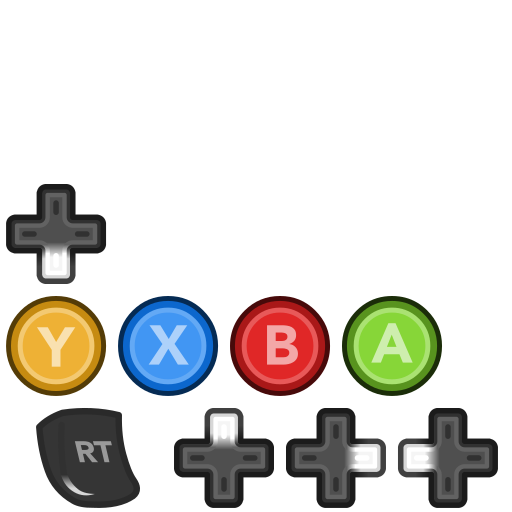
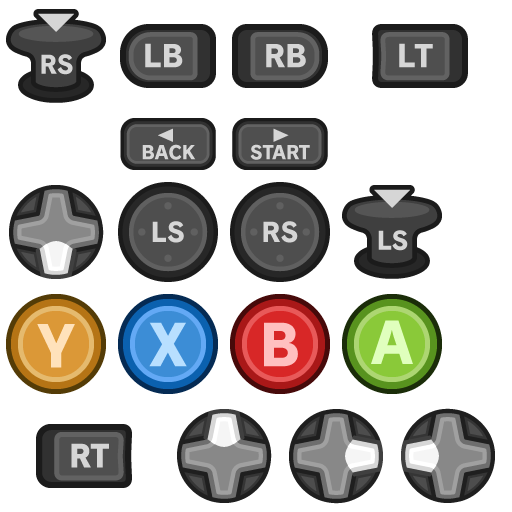
Update Button Prompts Textures Gallery

diff --git a/Remakes and Reskins/UI/Button Prompts/README.md b/Remakes and Reskins/UI/Button Prompts/README.md
@@ -1,26 +1,32 @@
 # Change Button Prompts
 
-If you what to change the button promts in the game the following sprite files need to be repleaced:
+If you what to change the button prompts in the game the following sprite files need to be replaced:
 
+- "PRESS START" Title screen: [`spr_sprani_sumo_fe_cvt_Exst/31C58963_512x256.dds`](/Original%20(PC)/Original%20(Tweaks%20dumps)/spr_sprani_sumo_fe_cvt_Exst/31C58963_512x256.png)
 - Main menu: [`spr_sprani_etc_cvt_Exst/1F77CB88_128x128.dds`](/Original%20(PC)/Original%20(Tweaks%20dumps)/spr_sprani_etc_cvt_Exst/1F77CB88_128x128.png)
 - Selection menu: [`spr_sprani_sumo_fe_cvt_Exst/ACF61D7C_1024x512.dds`](/Original%20(PC)/Original%20(Tweaks%20dumps)/spr_sprani_sumo_fe_cvt_Exst/ACF61D7C_1024x512.png)
+- Mission select in C2C: [`spr_sprani_sumo_fe_cvt_Exst/616FC97B_512x128.dds`](/Original%20(PC)/Original%20(Tweaks%20dumps)/spr_sprani_sumo_fe_cvt_Exst/616FC97B_512x128.png)
 - Race complete: [`spr_sprani_game_cvt_Exst/39229D64_1024x1024.dds`](/Original%20(PC)/Original%20(Tweaks%20dumps)/spr_sprani_game_cvt_Exst/39229D64_1024x1024.png)
 - Unlock screen: [`spr_sprani_congrats_cvt_Exst/455717B2_512x512.dds`](/Original%20(PC)/Original%20(Tweaks%20dumps)/spr_sprani_congrats_cvt_Exst/455717B2_512x512.png)
 - Holly's requests: [`spr_sprani_fruity_cvt_Exst/FA7BBB13_1024x512.dds`](/Original%20(PC)/Original%20(Tweaks%20dumps)/spr_sprani_fruity_cvt_Exst/FA7BBB13_1024x512.png)
 
 # Gallery
 
+|![Keyboard Dark](/Remakes%20and%20Reskins/UI/Button%20Prompts/Gallery/keys-dark.png)|![Keyboard Light](/Remakes%20and%20Reskins/UI/Button%20Prompts/Gallery/keys-light.png)|![Generic Dark](/Remakes%20and%20Reskins/UI/Button%20Prompts/Gallery/generic-dark.png)|![Generic Light](/Remakes%20and%20Reskins/UI/Button%20Prompts/Gallery/generic-light.png)|
+|---|---|---|---|
+|Keyboard Dark|Keyboard Light|Generic Dark|Generic Light|
+
 |![Xbox Classic](/Remakes%20and%20Reskins/UI/Button%20Prompts/Gallery/xb-classic.png)|![Xbox Modern](/Remakes%20and%20Reskins/UI/Button%20Prompts/Gallery/xb-modern.png)|![Xbox Dark](/Remakes%20and%20Reskins/UI/Button%20Prompts/Gallery/xb-dark.png)|![Xbox Light](/Remakes%20and%20Reskins/UI/Button%20Prompts/Gallery/xb-light.png)|
 |---|---|---|---|
 |Xbox Classic|Xbox Modern|Xbox Dark|Xbox Light|
 
-|![Keyboard](/Remakes%20and%20Reskins/UI/Button%20Prompts/Gallery/keys.png)|![PS Color](/Remakes%20and%20Reskins/UI/Button%20Prompts/Gallery/ps-color.png)|![PS Dark](/Remakes%20and%20Reskins/UI/Button%20Prompts/Gallery/ps-dark.png)|![PS Light](/Remakes%20and%20Reskins/UI/Button%20Prompts/Gallery/ps-light.png)|
+|![PS Classic](/Remakes%20and%20Reskins/UI/Button%20Prompts/Gallery/ps-classic.png)|![PS Modern](/Remakes%20and%20Reskins/UI/Button%20Prompts/Gallery/ps-modern.png)|![PS Dark](/Remakes%20and%20Reskins/UI/Button%20Prompts/Gallery/ps-dark.png)|![PS Light](/Remakes%20and%20Reskins/UI/Button%20Prompts/Gallery/ps-light.png)|
 |---|---|---|---|
-|Keyboard|PS Color|PS Dark|PS Light|
+|PS Classic|PS Modern|PS Dark|PS Light|
 
-|![Generic Dark](/Remakes%20and%20Reskins/UI/Button%20Prompts/Gallery/generic-dark.png)|![Generic Light](/Remakes%20and%20Reskins/UI/Button%20Prompts/Gallery/generic-light.png)|![Nintendo Dark](/Remakes%20and%20Reskins/UI/Button%20Prompts/Gallery/nintendo-dark.png)|![Nintendo Light](/Remakes%20and%20Reskins/UI/Button%20Prompts/Gallery/nintendo-light.png)|
+|![Nintendo Dark](/Remakes%20and%20Reskins/UI/Button%20Prompts/Gallery/switch-dark.png)|![Nintendo Light](/Remakes%20and%20Reskins/UI/Button%20Prompts/Gallery/switch-light.png)|![-]|![-]|
 |---|---|---|---|
-|Generic Dark|Generic Light|Nintendo Dark|Nintendo Light|
+|Nintendo Switch Dark|Nintendo Switch Light|-|-|
 
 # Credits
 
@@ -28,4 +34,4 @@ Original assets by Nicolae "Xelu" Berbece from [Those Awesome Guys](https://thos
 
 Updated by Paul Paun.
 
-Addapted to Outrun2006 by Envido32 and kormann.
+Adapted to OutRun2006 by Envido32 and kormann.
